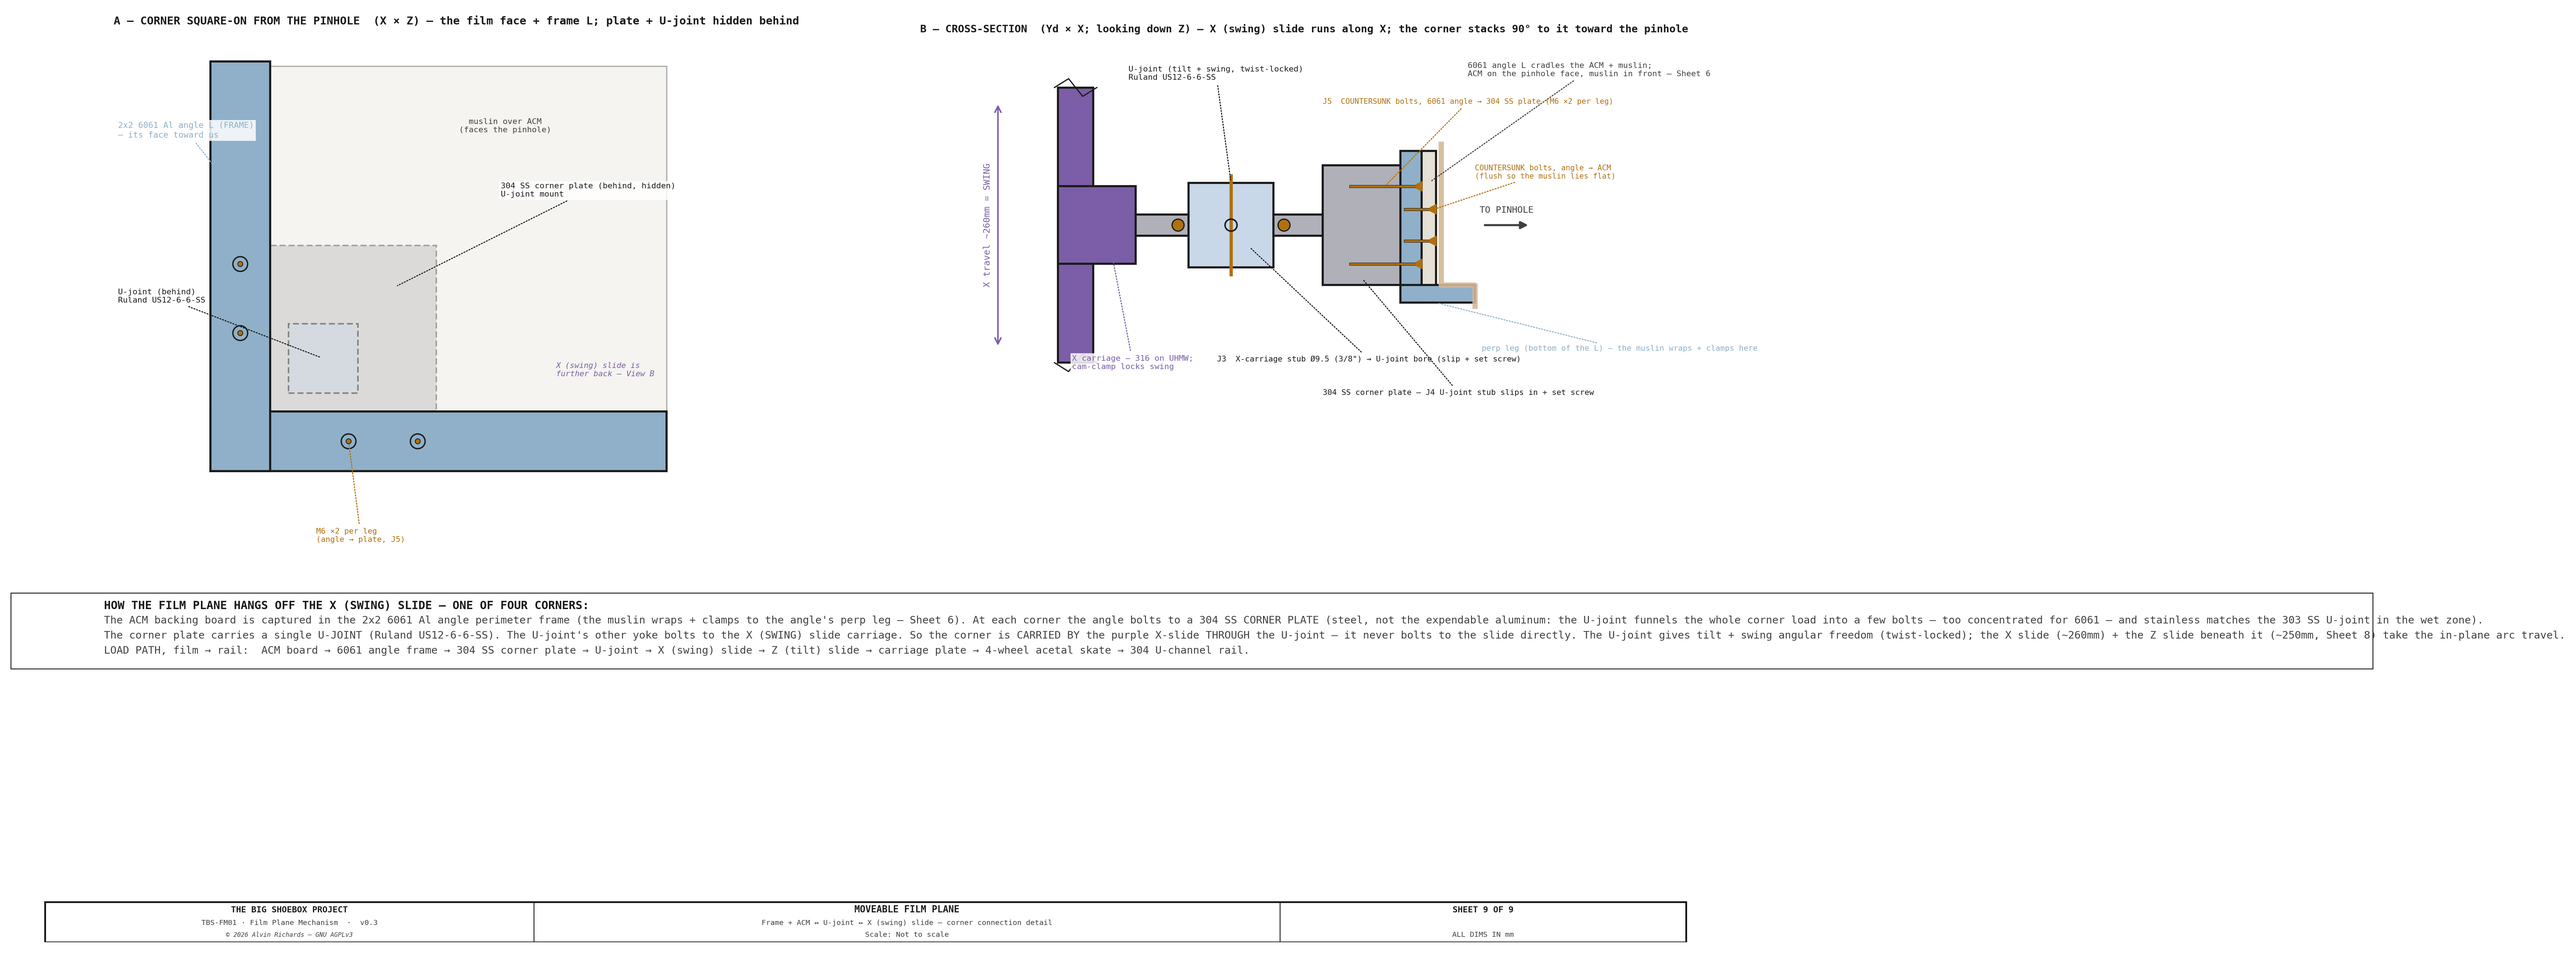
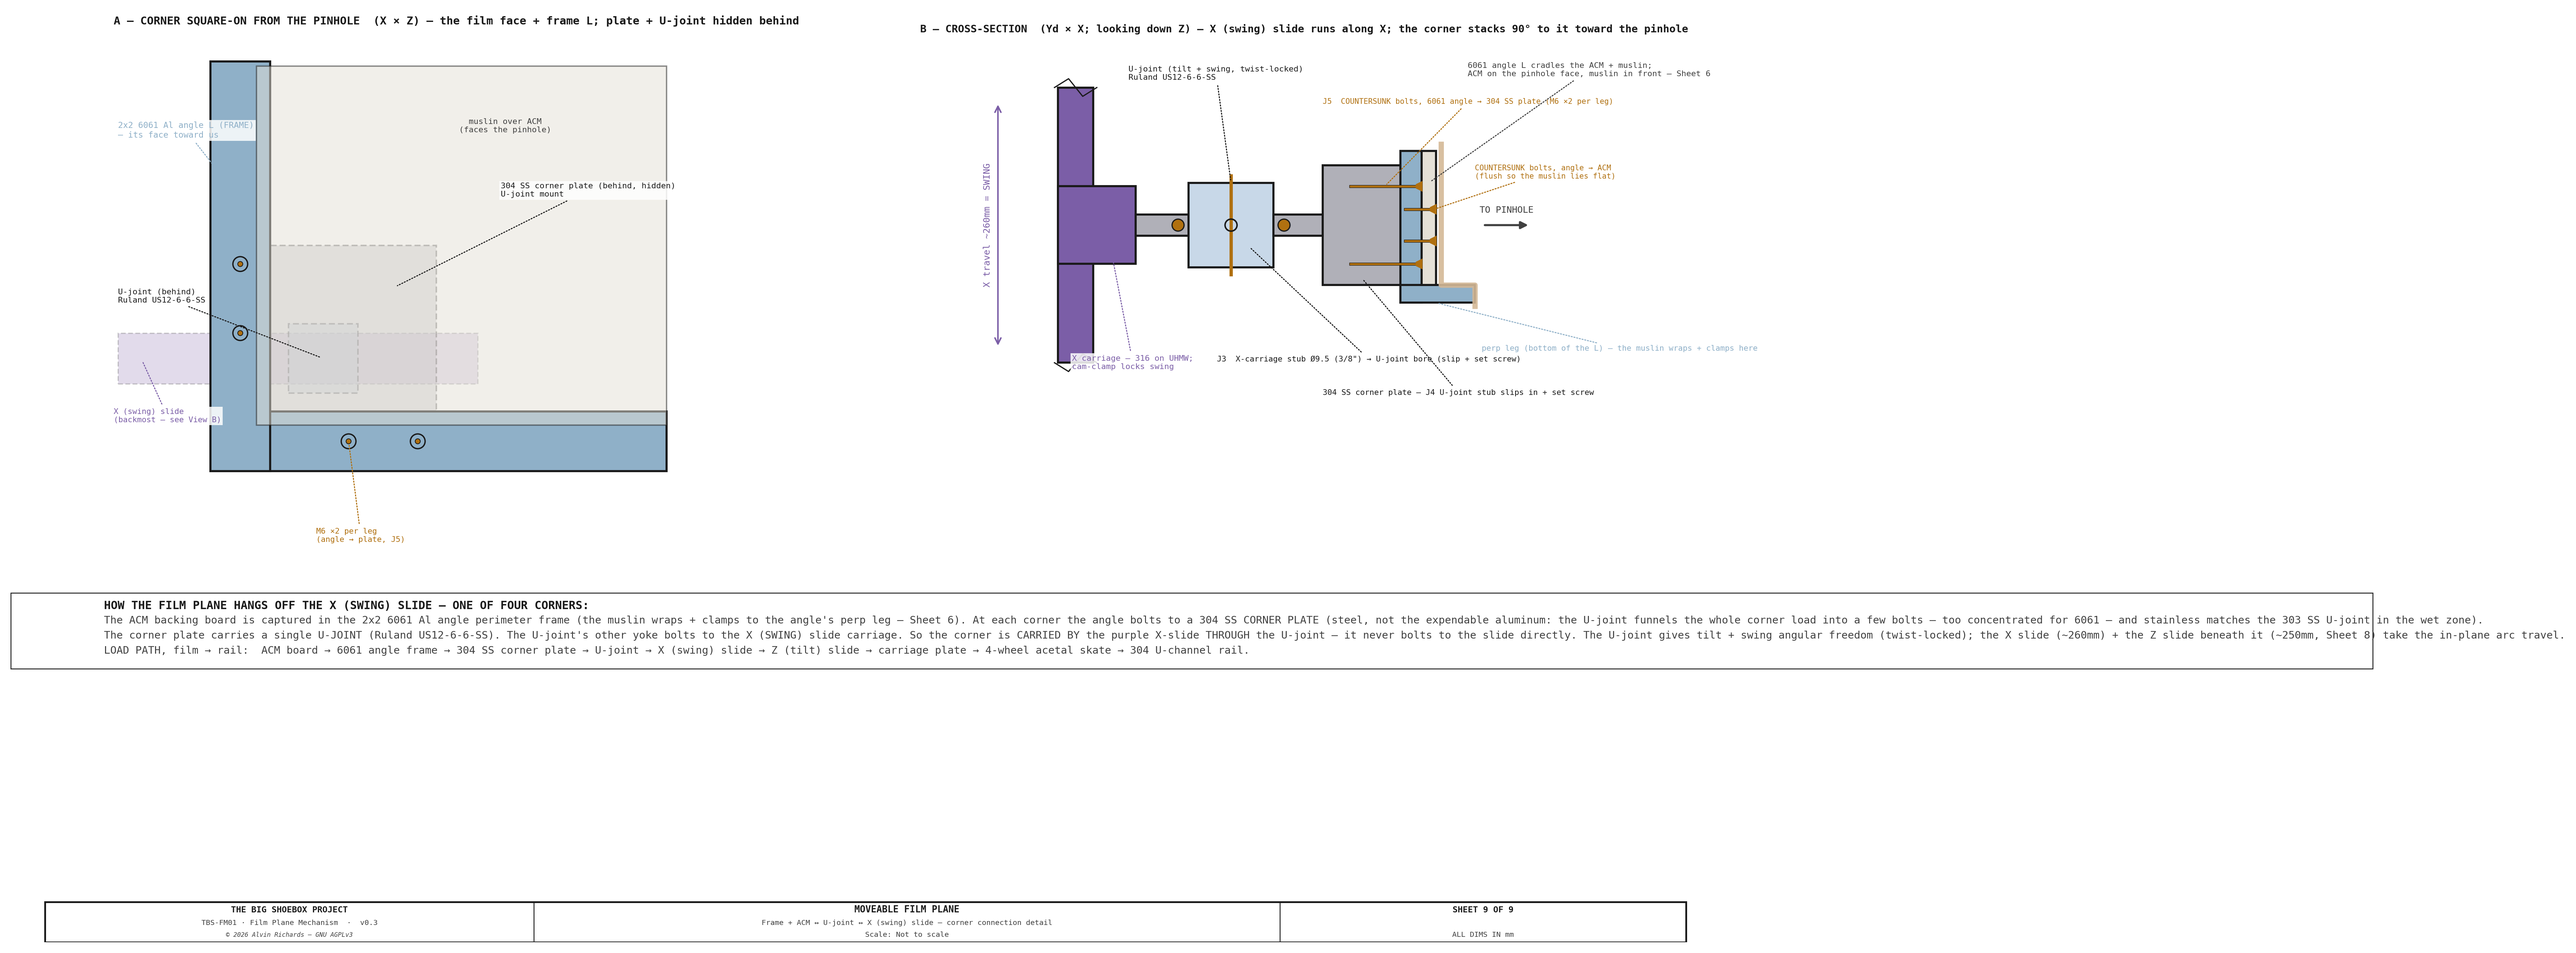
film-plane Sheet 9 View A: correct the depth order (back->front)
Alvin: from the pinhole the stack is X-slide -> U-joint -> 304 SS corner plate ->
6061 angle L -> ACM. Re-layered so the ACM is FRONTMOST (faces pinhole), the
U-joint sits BEHIND the corner plate, and the X-slide is the backmost ghost.

Changed region(s): [[0.0311, 0.0618, 0.2803, 0.4638], [0.218, 0.371, 0.2491, 0.402]]

diff --git a/src/generators/generate_film_plane_mechanism.py b/src/generators/generate_film_plane_mechanism.py
@@ -1950,19 +1950,20 @@ def _corner_elevation(ax):
     further back along the optical axis — shown square-on it is fully occluded, so see View B for it.
     Bottom-LEFT corner."""
     ax.set_xlim(-42, 206); ax.set_ylim(-36, 200); ax.set_aspect("equal"); ax.axis("off")
-    # ── hidden BEHIND the frame corner (dashed = occluded): 304 SS corner plate + U-joint ──
-    ax.add_patch(plt.Rectangle((0, 0), 98, 98, fc=C_STEEL, ec=OUT, lw=1.0, ls=(0, (4, 2)),
-                               alpha=0.5, zorder=4))                                     # 304 SS corner plate
+    # ── depth order square-on from the pinhole (BACK → FRONT): X-slide → U-joint → 304 SS corner
+    #    plate → 6061 angle L → ACM. Back layers are HIDDEN behind the front ones → dashed/faint. ──
+    ax.add_patch(plt.Rectangle((-40, 38), 156, 22, fc=C_SWING, ec=OUT, lw=0.8, ls=(0, (4, 2)),
+                               alpha=0.22, zorder=3))                                    # X (swing) slide — BACKMOST, runs along X
     ax.add_patch(plt.Rectangle((34, 34), 30, 30, fc=C_UJ, ec=OUT, lw=1.0, ls=(0, (4, 2)),
-                               alpha=0.7, zorder=5))                                     # U-joint (end-on)
-    # ── the film face we SEE (frontmost): muslin over the ACM, inboard of the frame L; semi-transparent
-    #    so the hidden plate/U-joint read through ──
-    ax.add_patch(plt.Rectangle((26, 26), 172, 150, fc=C_ACM, ec=OUT, lw=0.8, alpha=0.35, zorder=6))
+                               alpha=0.45, zorder=4))                                    # U-joint (ghost, behind the plate)
+    ax.add_patch(plt.Rectangle((0, 0), 98, 98, fc=C_STEEL, ec=OUT, lw=1.0, ls=(0, (4, 2)),
+                               alpha=0.4, zorder=5))                                     # 304 SS corner plate (ghost)
+    ax.add_patch(plt.Rectangle((0, 0), 198, 26, fc=C_FRAME, ec=OUT, lw=1.4, zorder=6))   # 6061 angle L — bottom leg
+    ax.add_patch(plt.Rectangle((0, 0), 26, 178, fc=C_FRAME, ec=OUT, lw=1.4, zorder=6))   # 6061 angle L — left leg
+    # ── ACM — FRONTMOST (faces the pinhole); semi-transparent so the ghosts behind read through ──
+    ax.add_patch(plt.Rectangle((20, 20), 178, 156, fc=C_ACM, ec=OUT, lw=0.9, alpha=0.5, zorder=8))
     ax.text(128, 150, "muslin over ACM\n(faces the pinhole)", fontsize=5.4, color=DIM,
             ha="center", va="center", zorder=15, **FONT)
-    # ── 6061 angle L frame — the perimeter border, its face toward us (solid) ──
-    ax.add_patch(plt.Rectangle((0, 0), 198, 26, fc=C_FRAME, ec=OUT, lw=1.4, zorder=7))   # bottom leg
-    ax.add_patch(plt.Rectangle((0, 0), 26, 178, fc=C_FRAME, ec=OUT, lw=1.4, zorder=7))   # left leg
     # M6 bolts, angle → 304 SS corner plate behind (J5, 2 per leg) — end-on (run along Yd into the plate)
     for (bx, bz) in [(60, 13), (90, 13), (13, 60), (13, 90)]:
         draw_circle(ax, bx, bz, 3.2, color=OUT, fill=False, lw=0.9, zorder=9)
@@ -1976,8 +1977,7 @@ def _corner_elevation(ax):
            ha="left", fs=5.4, color=OUT, font=FONT, bbox=LBL_BG)
     leader(ax, 60, 13, 46, -28, "M6 ×2 per leg\n(angle → plate, J5)",
            ha="left", fs=5.2, color=C_PIN, font=FONT, bbox=LBL_BG)
-    ax.text(150, 44, "X (swing) slide is\nfurther back — View B", fontsize=5.2, color=C_SWING,
-            ha="left", va="center", style="italic", zorder=15, **FONT)
+    leader(ax, -30, 49, -42, 24, "X (swing) slide\n(backmost — see View B)", ha="left", fs=5.2, color=C_SWING, font=FONT, bbox=LBL_BG)
     ax.text(-42, 198, "A — CORNER SQUARE-ON FROM THE PINHOLE  (X × Z) — the film face + frame L; plate + U-joint hidden behind",
             fontsize=7.4, fontweight="bold", color=OUT, ha="left", va="top", **FONT)
 
